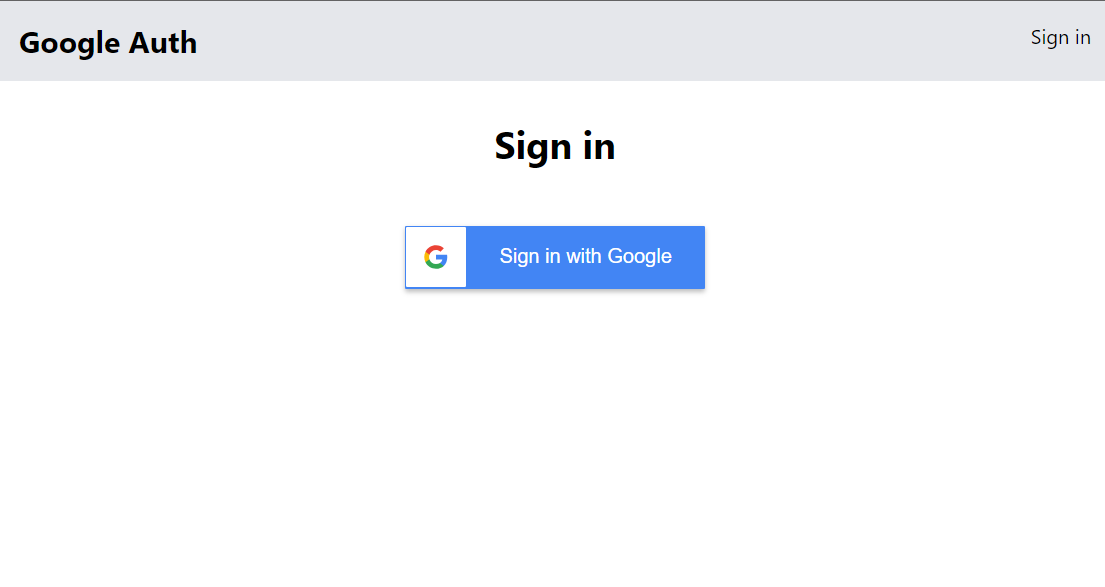
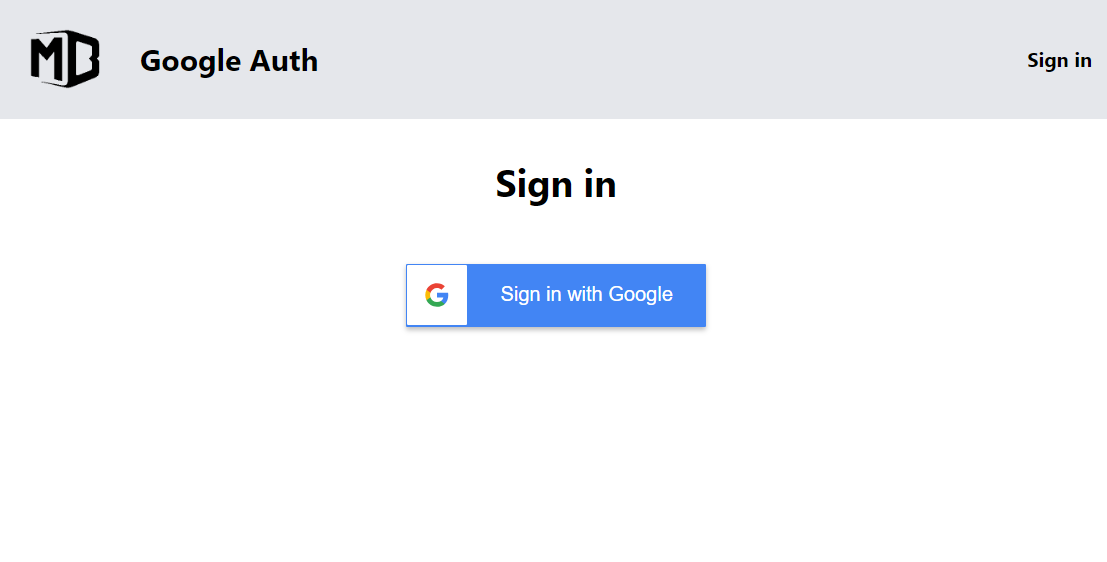
add googleAyth to portfolio

Changed region(s): [[0.0, 0.0302, 1.0, 0.605]]

diff --git a/js/modules/react.js b/js/modules/react.js
@@ -1,5 +1,10 @@
 const reactData = [
   { 
+    link: 'https://michalkcb.github.io/homePage/projectsReact/googleAuthentication/dist/index.html',
+    imageSrc: 'https://michalkcb.github.io/homePage/assets/googleAuth.png',
+    alt: 'Google Authentication (Tailwind)'
+  },
+  { 
   link: 'https://michalkcb.github.io/homePage/projectsReact/reactPortfolio/dist/index.html',
   imageSrc: 'https://michalkcb.github.io/homePage/assets/reactPortfolio.png',
   alt: 'My Portfolio in React'
